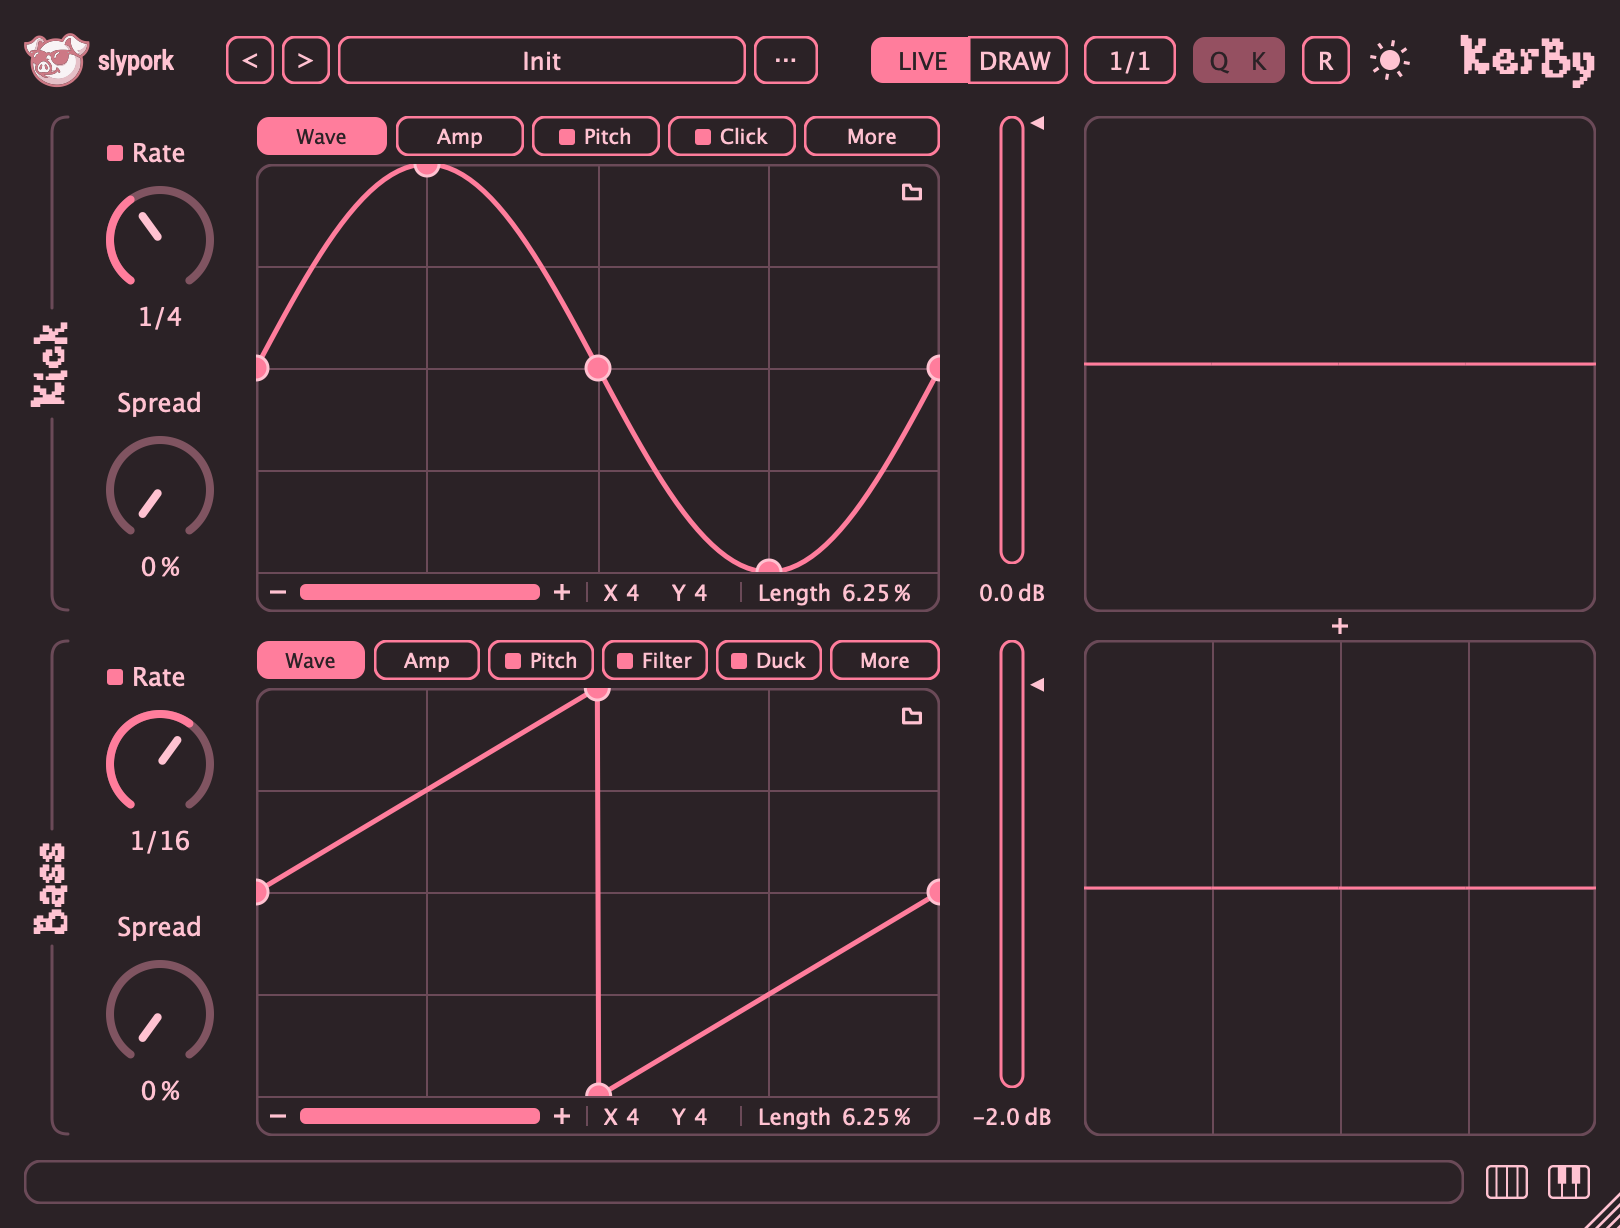
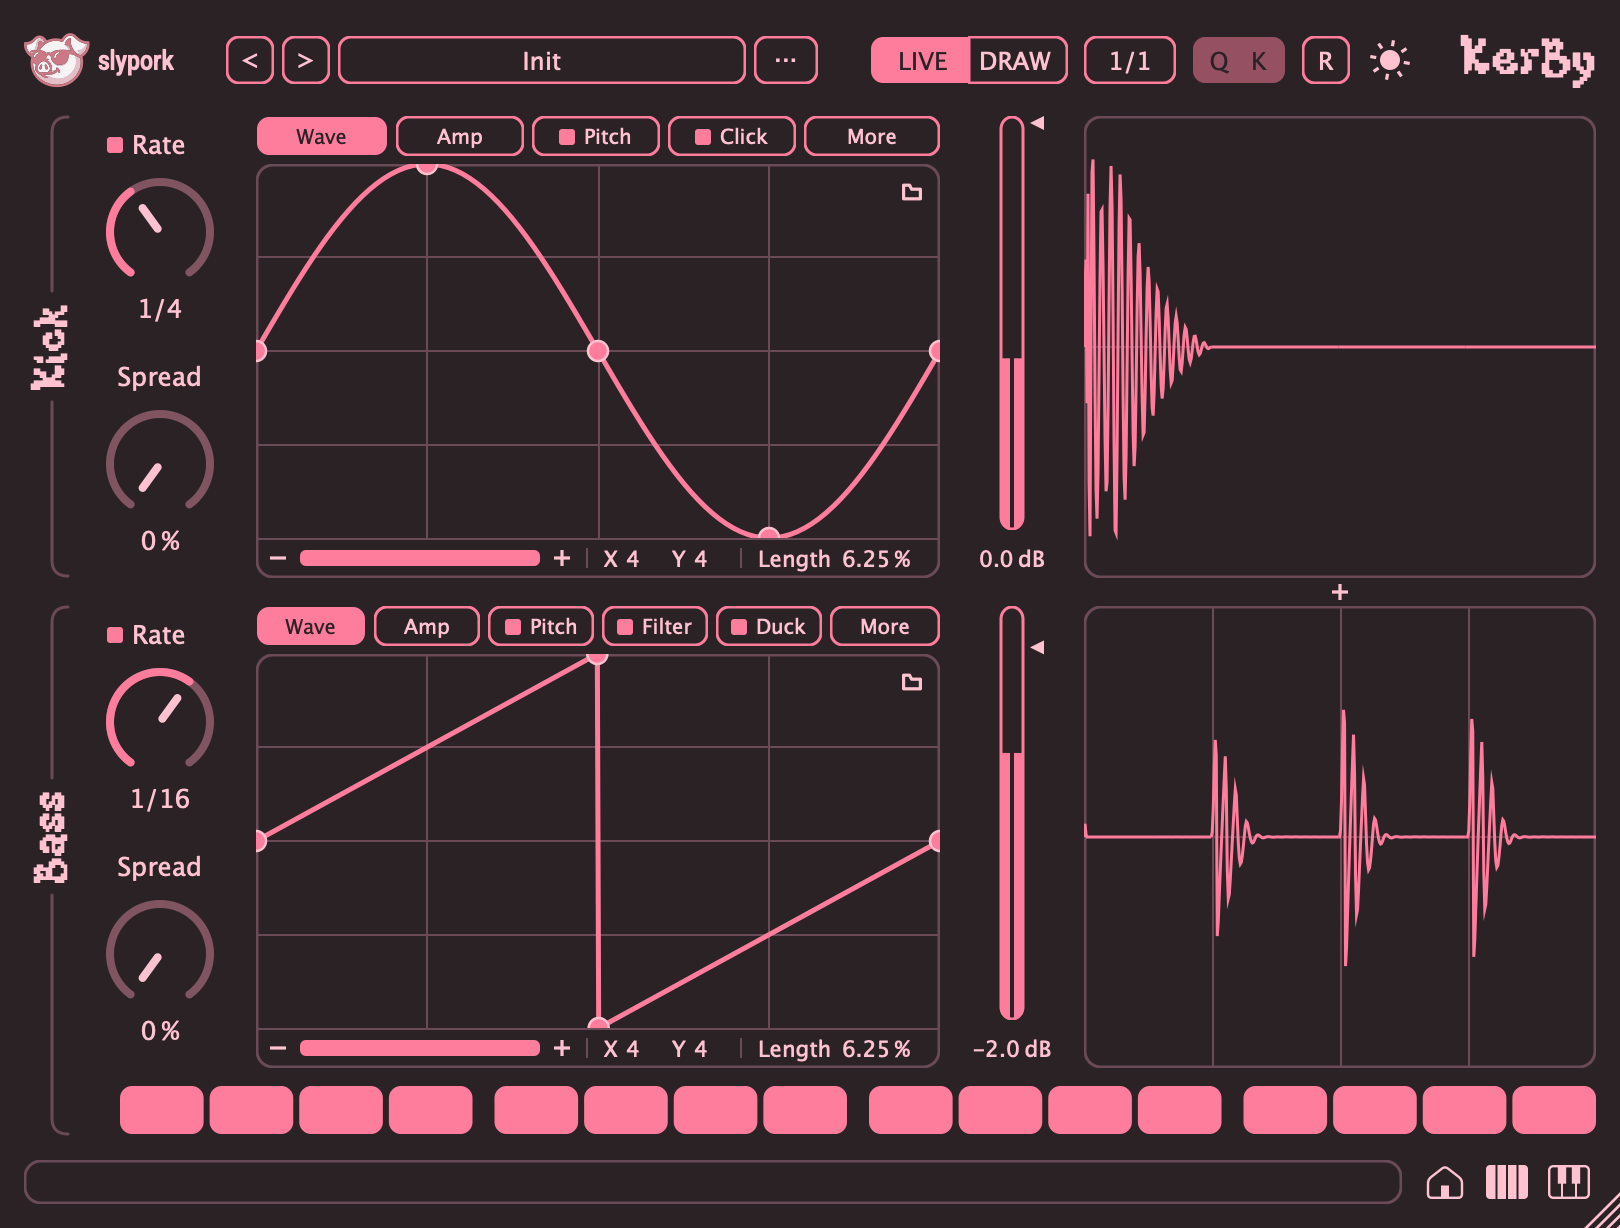
KerBy: v0.8.0

diff --git a/kerby/changelog.html b/kerby/changelog.html
@@ -2,26 +2,45 @@
      release.sh runs as part of cutting a drop. kerby.js fetches this into the
      "What's new" section of kerby/index.html. Don't hand-edit; edit CHANGELOG.md. -->
 <div class="text-lg font-light">
-    <h3 class="text-lg pt-4"><span class="text-kerbyRed dark:text-kerbyDarkText">v0.7.0</span><span class="text-base opacity-75"> &middot; 2026-09-08</span></h3>
+    <h3 class="text-lg pt-4"><span class="text-kerbyRed dark:text-kerbyDarkText">v0.8.0</span><span class="text-base opacity-75"> &middot; 2026-09-17</span></h3>
     <h4 class="text-base pt-3 opacity-75">Added</h4>
     <ul class="list-disc pl-5 pt-1 space-y-2">
-        <li><strong>A Click tab on the Kick layers a second one-shot over every pulse.</strong> Drag and drop a sample to get started.</li>
-        <li><strong>Live and Draw modes, in the header.</strong> Live turns on quantization and rate division for live play. Draw mode is the opposite, intended for pre-drawn MIDI clips. A bypass box has been added to each rate knob to achieve this.</li>
-        <li><strong>Triplet, in each Rate value's dropdown</strong>, swaps the dotted divisions for triplets. VST3 hosts can show either division; some AU hosts may keep the dotted label when toggling.</li>
-        <li><strong>Draw mode in every shape editor.</strong> Press B and drag to paint one step per grid cell; Esc or B leaves the mode.</li>
-        <li><strong>A folded corner marks a step box whose finer steps disagree.</strong> Rest the pointer on it to open the stored pattern underneath.</li>
+        <li><strong>A signed installer for macOS.</strong> Run KerBy.pkg and choose the VST3, the AU or the standalone app; the Terminal step from earlier drops is no longer needed.</li>
+        <li><strong>Drag a scope out as audio.</strong> The bar on screen, or the quarter bar when zoomed, drops into your DAW or back onto a Wave tab as a WAV.</li>
+        <li><strong>Return Home, in the bottom bar</strong>, sends both Rate knobs home and both bends to centre. Right-click a Rate knob to set its home.</li>
     </ul>
     <h4 class="text-base pt-3 opacity-75">Changed</h4>
     <ul class="list-disc pl-5 pt-1 space-y-2">
-        <li><strong>The Wave tab's sample trim now has Start only.</strong> End control was overkill when we already have Length.</li>
+        <li><strong>Everything below 120Hz is summed to mono</strong>, on each voice.</li>
+        <li><strong>The Kick reverb's Size gets tighter below 25%.</strong></li>
+        <li><strong>Switching a Rate to Free keeps the rhythm</strong>, starting from the division's speed at the current tempo.</li>
+        <li><strong>A scope keeps the last bar played on screen after the voice stops.</strong></li>
+        <li><strong>Anchor points are smaller, and hidden in Draw mode.</strong></li>
     </ul>
     <h4 class="text-base pt-3 opacity-75">Fixed</h4>
     <ul class="list-disc pl-5 pt-1 space-y-2">
-        <li><strong>Holding or releasing Cmd/Ctrl during a value drag no longer jumping occasionally</strong></li>
-        <li><strong>The Kick reverb's Size now reaches a genuinely short room.</strong></li>
+        <li><strong>Turning Rate back on while a note is held brings its pulses back.</strong></li>
     </ul>
     <details class="pt-6">
         <summary class="text-base font-light cursor-pointer">Earlier versions</summary>
+        <h3 class="text-lg pt-4"><span class="text-kerbyRed dark:text-kerbyDarkText">v0.7.0</span><span class="text-base opacity-75"> &middot; 2026-09-08</span></h3>
+        <h4 class="text-base pt-3 opacity-75">Added</h4>
+        <ul class="list-disc pl-5 pt-1 space-y-2">
+            <li><strong>A Click tab on the Kick layers a second one-shot over every pulse.</strong> Drag and drop a sample to get started.</li>
+            <li><strong>Live and Draw modes, in the header.</strong> Live turns on quantization and rate division for live play. Draw mode is the opposite, intended for pre-drawn MIDI clips. A bypass box has been added to each rate knob to achieve this.</li>
+            <li><strong>Triplet, in each Rate value's dropdown</strong>, swaps the dotted divisions for triplets. VST3 hosts can show either division; some AU hosts may keep the dotted label when toggling.</li>
+            <li><strong>Draw mode in every shape editor.</strong> Press B and drag to paint one step per grid cell; Esc or B leaves the mode.</li>
+            <li><strong>A folded corner marks a step box whose finer steps disagree.</strong> Rest the pointer on it to open the stored pattern underneath.</li>
+        </ul>
+        <h4 class="text-base pt-3 opacity-75">Changed</h4>
+        <ul class="list-disc pl-5 pt-1 space-y-2">
+            <li><strong>The Wave tab's sample trim now has Start only.</strong> End control was overkill when we already have Length.</li>
+        </ul>
+        <h4 class="text-base pt-3 opacity-75">Fixed</h4>
+        <ul class="list-disc pl-5 pt-1 space-y-2">
+            <li><strong>Holding or releasing Cmd/Ctrl during a value drag no longer jumping occasionally</strong></li>
+            <li><strong>The Kick reverb's Size now reaches a genuinely short room.</strong></li>
+        </ul>
         <h3 class="text-lg pt-4"><span class="text-kerbyRed dark:text-kerbyDarkText">v0.6.0</span><span class="text-base opacity-75"> &middot; 2026-09-06</span></h3>
         <h4 class="text-base pt-3 opacity-75">Added</h4>
         <ul class="list-disc pl-5 pt-1 space-y-2">

diff --git a/kerby/index.html b/kerby/index.html
@@ -95,7 +95,7 @@
                         <div class="kerby-actions">
                             <a class="kerby-button" href="#notifyForm" id="kerbyBetaCta">Ask to try the beta</a>
                         </div>
-                        <p class="kerby-availability">Closed beta · <span data-kerby-version>v0.7.0</span>
+                        <p class="kerby-availability">Closed beta · <span data-kerby-version>v0.8.0</span>
                             <span>macOS · AU / VST3 &nbsp; Windows · VST3</span>
                         </p>
                     </header>
